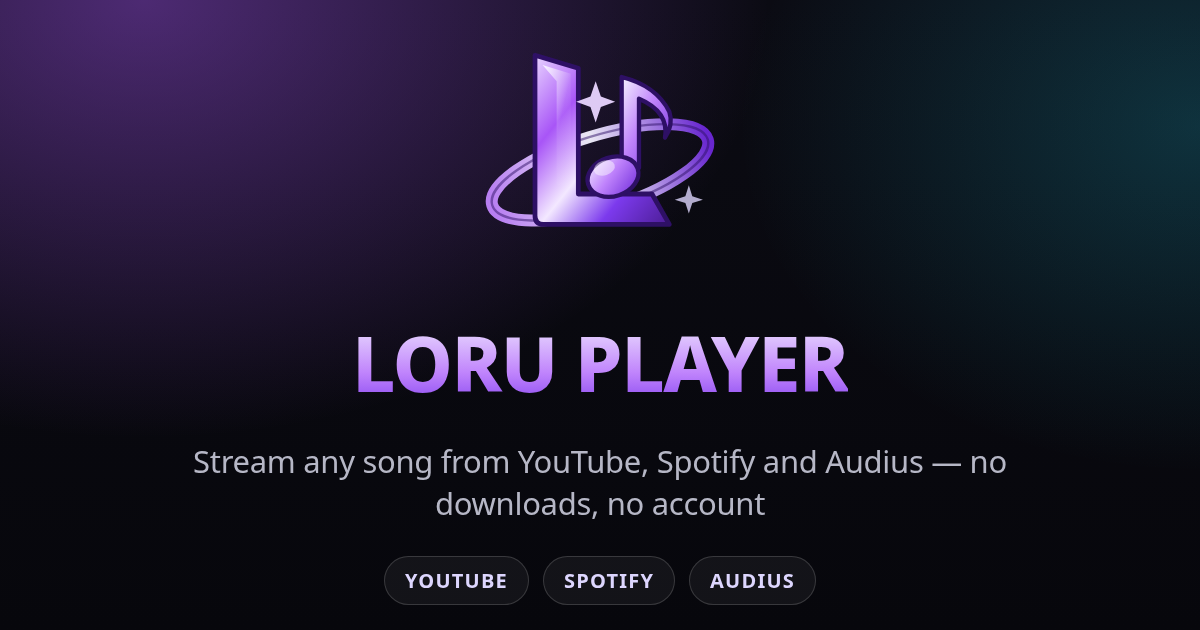
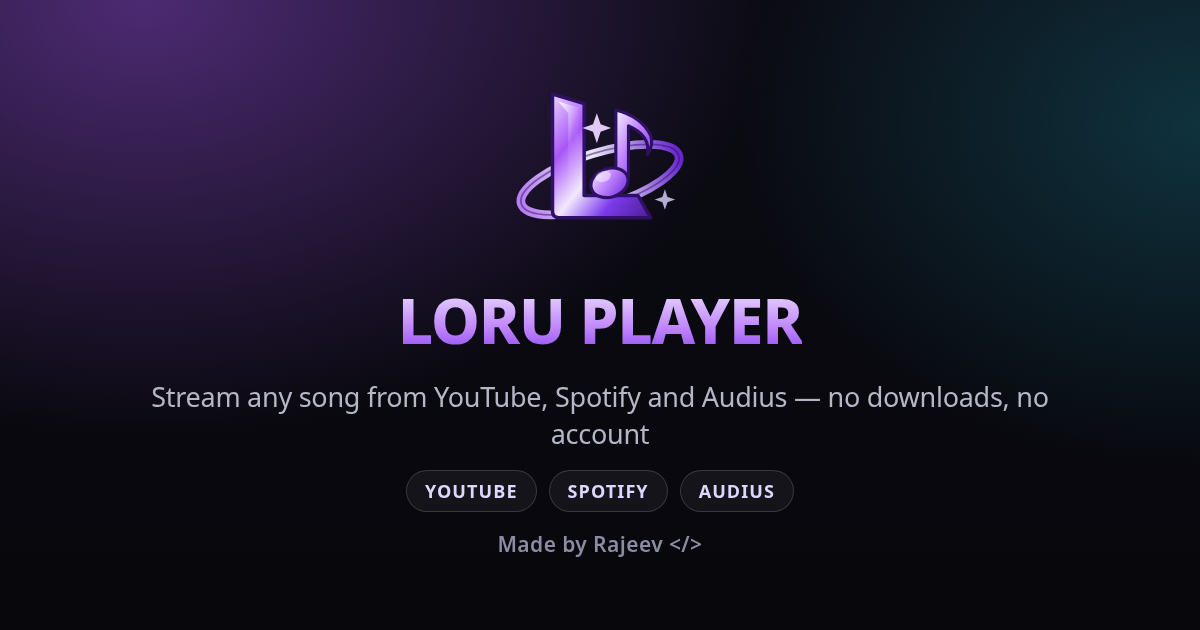
Credit Rajeev </> across the app, docs and share card
- byline in the sidebar footer, linking to the GitHub profile, with the
  </> rendered in the accent gradient
- "Made by" row plus a link in the Settings About panel
- credit line on the 1200x630 social share card
- README header and a Credit section
- package.json author, and version aligned at 1.2.0

The share card needed resizing as well: the logo, heading and body copy
were large enough that the new credit line fell outside the 630px frame
and was cut off. Everything now fits inside the card.

The angle brackets are written as escaped entities in markup and set via
textContent in JavaScript, so they render as text rather than being
parsed as a tag.

diff --git a/assets/js/ui/views-manage.js b/assets/js/ui/views-manage.js
@@ -580,14 +580,19 @@
     view.appendChild(ui.section({ title: 'About Loru Player' }, el('div.panel', [
       el('p.panel__desc', 'Loru Player is a browser-based music player. It never stores audio: each track is streamed from the service that hosts it, using that service’s official player or public API. Playlists you import are references, not copies.'),
       el('div.kbd-list', { style: { marginTop: '16px' } }, [
-        ['Version', '1.1.0'],
+        ['Version', '1.2.0'],
         ['Streaming', 'YouTube · Audius · Spotify · direct URLs'],
         ['Lyrics', 'LRCLIB, fetched live'],
         ['Storage', 'Browser local storage only'],
         ['Accounts', 'None required'],
+        ['Made by', 'Rajeev </>'],
       ].map(([k, v]) => el('div.kbd-row', [el('span', { text: k }), el('span', { style: { color: 'var(--ink-3)' }, text: v })]))),
-      el('div', { style: { marginTop: '16px' } },
-        el('button.btn.btn--ghost.btn--sm', { type: 'button', onclick: () => L.app.showShortcuts() }, [icon('info'), 'Keyboard shortcuts'])),
+      el('div', { style: { marginTop: '16px', display: 'flex', gap: '10px', flexWrap: 'wrap', alignItems: 'center' } }, [
+        el('button.btn.btn--ghost.btn--sm', { type: 'button', onclick: () => L.app.showShortcuts() }, [icon('info'), 'Keyboard shortcuts']),
+        el('a.btn.btn--ghost.btn--sm', {
+          href: 'https://github.com/Rajeev0007', target: '_blank', rel: 'noopener',
+        }, [icon('globe'), 'Made by Rajeev </>']),
+      ]),
     ])));
 
     return view;

diff --git a/assets/css/components.css b/assets/css/components.css
@@ -1133,3 +1133,33 @@
 
 /* Belt and braces against a stray pixel of horizontal scroll */
 .view-wrap { overflow-x: clip; }
+
+
+/* ─────────────────────────── Credit ─────────────────────────── */
+.sidebar__credit {
+  display: flex;
+  align-items: center;
+  gap: 5px;
+  padding: 10px 13px 4px;
+  font-size: var(--fs-xs);
+  color: var(--ink-3);
+  letter-spacing: .02em;
+  transition: color var(--t-fast);
+}
+.sidebar__credit:hover { color: var(--ink-2); }
+.sidebar__credit strong { font-weight: 700; color: var(--ink-2); }
+.sidebar__credit-tag {
+  font-family: var(--font-body);
+  font-weight: 700;
+  background: var(--accent-grad);
+  -webkit-background-clip: text;
+  background-clip: text;
+  -webkit-text-fill-color: transparent;
+  color: transparent;
+}
+
+/* Icon rail and collapsed states have no room for a byline */
+.app[data-sidebar="collapsed"] .sidebar__credit { display: none; }
+@media (min-width: 769px) and (max-width: 1024px) {
+  .sidebar__credit { display: none; }
+}

diff --git a/index.html b/index.html
@@ -155,6 +155,9 @@ window.__loruErrors = [];
     <div class="sidebar__foot">
       <a class="nav__item nav__item--quiet" href="#/settings" data-nav data-route="settings" title="Settings"><svg class="icon"><use href="#i-settings"/></svg><span>Settings</span></a>
       <button class="nav__item nav__item--quiet" id="btnShortcuts" title="Keyboard shortcuts"><svg class="icon"><use href="#i-info"/></svg><span>Shortcuts</span></button>
+      <a class="sidebar__credit" href="https://github.com/Rajeev0007" target="_blank" rel="noopener" title="Made by Rajeev">
+        Made by <strong>Rajeev</strong> <span class="sidebar__credit-tag">&lt;/&gt;</span>
+      </a>
     </div>
   </aside>
 

diff --git a/README.md b/README.md
@@ -10,6 +10,8 @@ lyrics — and never download a file.
 
 [Live site](https://loruplayer.vercel.app) · [Deploying](DEPLOY.md)
 
+<sub>Made by <b>Rajeev</b> &lt;/&gt;</sub>
+
 </div>
 
 ---
@@ -270,6 +272,10 @@ hidden `#__diag` element, which those scripts assert against.
   Loru matches to YouTube instead.
 - Imported playlists are snapshots; use **Refresh** on a playlist to re-read it.
 - Library data is per-browser. Use *Settings → Export library* to move it.
+
+## Credit
+
+Made by **Rajeev** `</>`
 
 ## Licence
 
